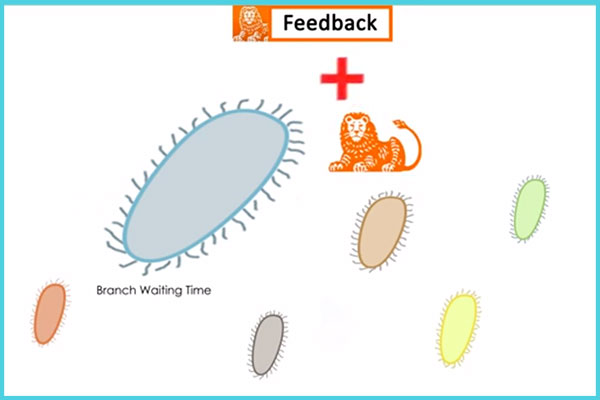
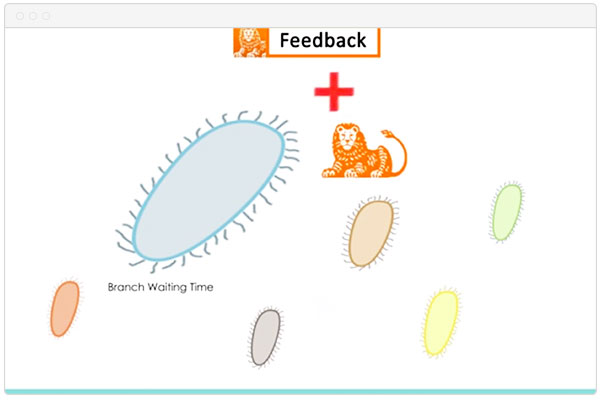
3.20

diff --git a/style.css b/style.css
@@ -211,7 +211,7 @@ a.cv-back h3
 
 .item a.feedback-front 
 {
-	background: url('images/projects/feedback/1.jpg') no-repeat 0 0;
+	background: url('images/projects/feedback/1.png') no-repeat 0 0;
 	background-size:cover;
 	position:absolute;
 	z-index: 31;
